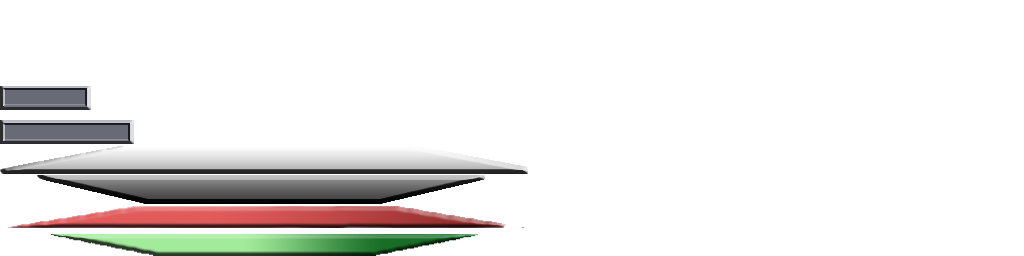
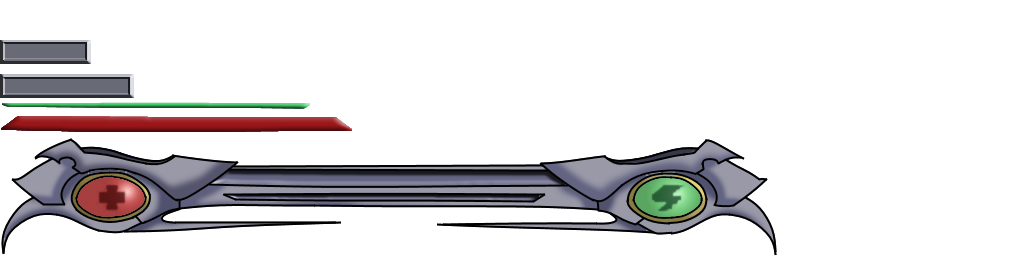
[ADD] New HUD

Changed region(s): [[0.0, 0.2812, 0.7812, 1.0], [0.0, 0.1562, 0.0938, 0.25]]

diff --git a/opengltest/Game.cpp b/opengltest/Game.cpp
@@ -76,28 +76,28 @@ void Game::initializeGame()
 
 	hpBG->setNumberOfAnimations(1);
 	hpBG->setCurrentAnimation(0);
-	hpBG->setSpriteFrameSize(528, 59);
-	hpBG->addSpriteAnimFrame(0, 0, 53);
+	hpBG->setSpriteFrameSize(789, 119);
+	hpBG->addSpriteAnimFrame(0, 0, 0);
 
 	hpBar->setNumberOfAnimations(1);
 	hpBar->setCurrentAnimation(0);
-	hpBar->setSpriteFrameSize(497, 22);
-	hpBar->addSpriteAnimFrame(0, 8, 29);
+	hpBar->setSpriteFrameSize(351, 10);
+	hpBar->addSpriteAnimFrame(0, 1, 124);
 
 	energyBar->setNumberOfAnimations(1);
 	energyBar->setCurrentAnimation(0);
-	energyBar->setSpriteFrameSize(427, 22);
-	energyBar->addSpriteAnimFrame(0, 51, 0);
+	energyBar->setSpriteFrameSize(308, 7);
+	energyBar->addSpriteAnimFrame(0, 2, 147);
 
 	s_Score->setNumberOfAnimations(1);
 	s_Score->setCurrentAnimation(0);
 	s_Score->setSpriteFrameSize(134, 24);
-	s_Score->addSpriteAnimFrame(0, 0, 113);
+	s_Score->addSpriteAnimFrame(0, 0, 159);
 
 	s_Time->setNumberOfAnimations(1);
 	s_Time->setCurrentAnimation(0);
 	s_Time->setSpriteFrameSize(91, 24);
-	s_Time->addSpriteAnimFrame(0, 0, 146);
+	s_Time->addSpriteAnimFrame(0, 0, 193);
 }
 
 void Game::QuitGame()
@@ -238,24 +238,24 @@ void Game::drawSprites()
 	if (dec <= 0)
 		w = 0;
 	else
-		dec > 1 ? w = 497 : w = 497 * dec;
-	hpBar->setSpriteFrameSize(w, 22);
+		dec > 1 ? w = 351 : w = 351 * dec;
+	hpBar->setSpriteFrameSize(w, 15);
 	dec = (float)entityManager->getEnergy(0) / entityManager->getMaxEnergy(0);
 	if (dec <= 0)
 		w = 0;
 	else
-		w = 427 * dec;
-	energyBar->setSpriteFrameSize(w, 22);
+		w = 308 * dec;
+	energyBar->setSpriteFrameSize(w, 7);
 
 
 
-	hpBG->setPosition(entityManager->getCXofID(0) - (66), entityManager->getYofID(0) - (74));
+	hpBG->setPosition(entityManager->getCXofID(0) - (100), entityManager->getYofID(0) - (74 + 10));
 	hpBG->draw(0.25);
 
 
-	hpBar->setPosition(entityManager->getCXofID(0) - (66 - 3), entityManager->getYofID(0) - (74 - 8.5));
+	hpBar->setPosition(entityManager->getCXofID(0) - (100 - 53), entityManager->getYofID(0) - (56.35 + 10));
 	hpBar->draw(0.25);
-	energyBar->setPosition(entityManager->getCXofID(0) - (66 - 13), entityManager->getYofID(0) - (74 - 1.1));
+	energyBar->setPosition(entityManager->getCXofID(0) - (100 - 57.5), entityManager->getYofID(0) - (60.25 + 10));
 	energyBar->draw(0.25);
 
 	s_Score->setPosition(entityManager->getCXofID(0) - (132), entityManager->getYofID(0) + (100));

diff --git a/opengltest/Dialog.h b/opengltest/Dialog.h
@@ -1,7 +1,10 @@
 
 
 #include "Sprite.h"
-#include "drawPrimitives.h"
+#ifndef M_PI
+#define M_PI 3.14159265358979323846
+#endif
+//#include "drawPrimitives.h"
 #include <string>
 #include <vector>
 #include <fstream>

diff --git a/opengltest/drawPrimitives.h b/opengltest/drawPrimitives.h
@@ -1,5 +1,7 @@
 
 #pragma once
+#ifndef PRIM_H
+#define PRIM_H
 #include "GL/glut.h"
 #include <string>
 
@@ -121,3 +123,5 @@ void drawText(std::string s, float posX, float posY)
 	}
 	glPopMatrix();
 }
+
+#endif
